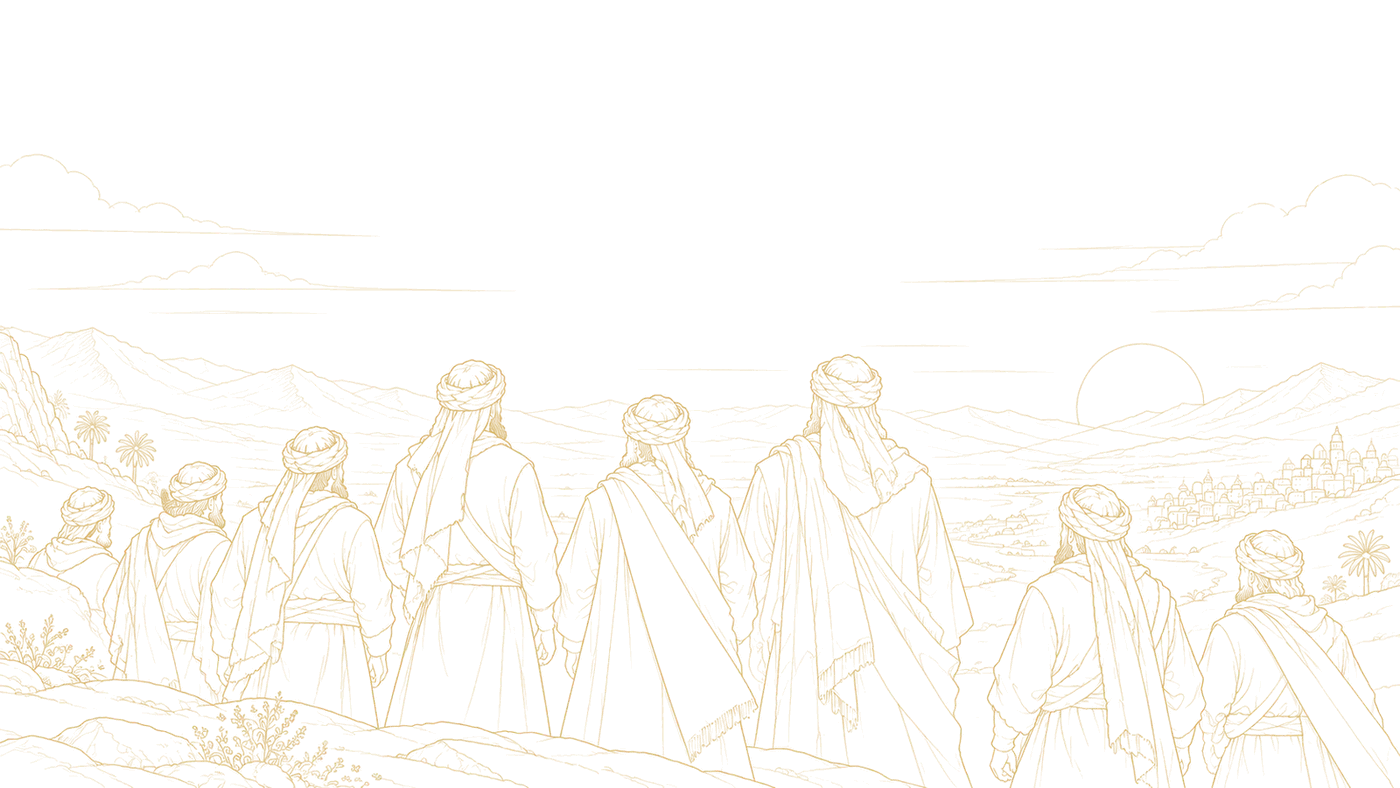
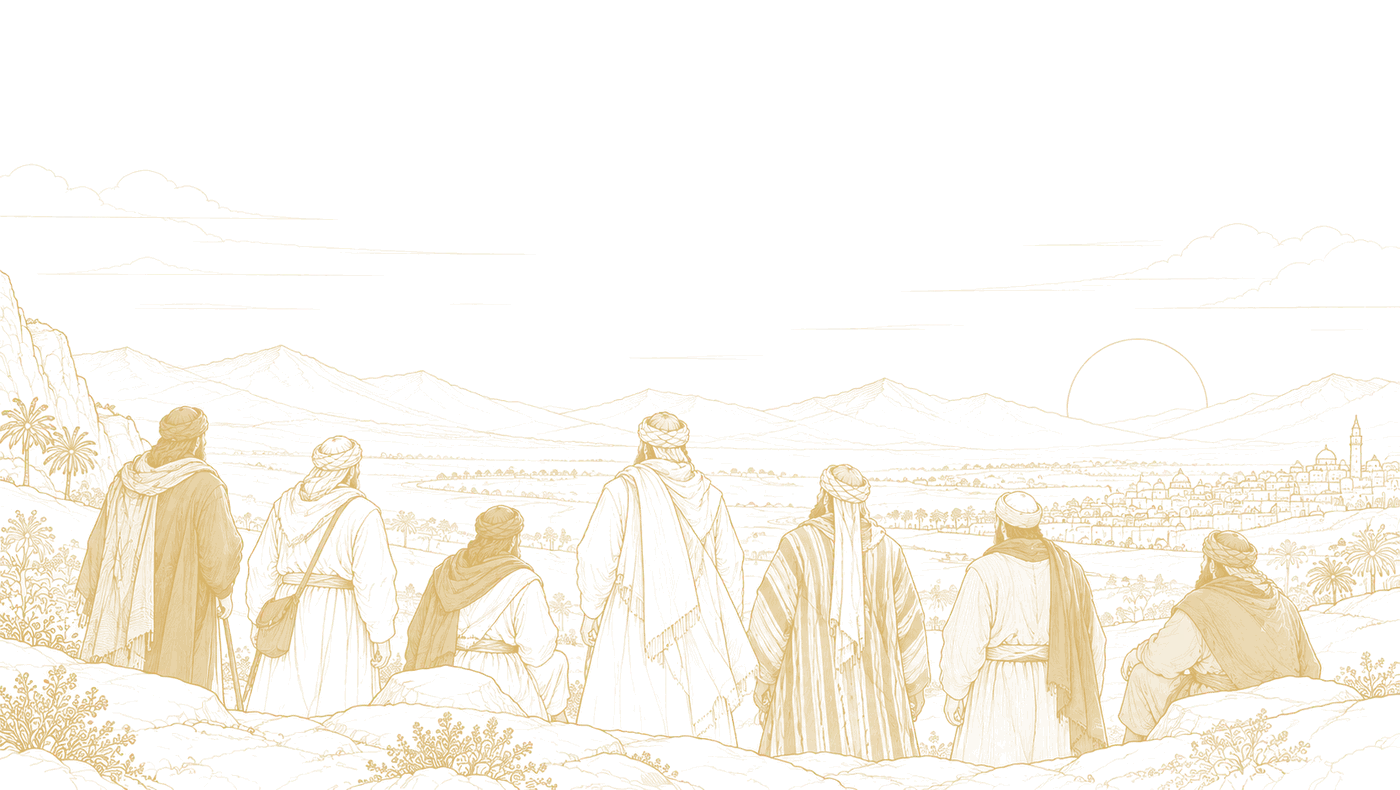
خلفية الشريط: الرسمة الجديدة أخف، وزووم في الموبايل
Claude-Session: https://claude.ai/code/session_017sij6fWkXrWpzPm7aXr9HP

diff --git a/index.html b/index.html
@@ -488,9 +488,9 @@ svg text{direction:rtl;word-spacing:normal!important;letter-spacing:normal!impor
 .band-crowd{height:clamp(120px,20vw,236px);max-height:none}
 .band-ctas{margin-top:26px}.band-ctas .band-cta{margin-top:0}.band-cta2{line-height:1.6}
 .band-crowd{display:none}.band-rose{display:none}
-.band-art{position:absolute;inset:0;z-index:-1;pointer-events:none;background:url(/img/band-art.webp) center bottom/cover no-repeat;opacity:.42;-webkit-mask-image:linear-gradient(to top,#000 25%,rgba(0,0,0,.35) 58%,transparent 88%);mask-image:linear-gradient(to top,#000 25%,rgba(0,0,0,.35) 58%,transparent 88%)}
+.band-art{position:absolute;inset:0;z-index:-1;pointer-events:none;background:url(/img/band-art.webp) center bottom/cover no-repeat;opacity:.3;-webkit-mask-image:linear-gradient(to top,#000 25%,rgba(0,0,0,.35) 58%,transparent 88%);mask-image:linear-gradient(to top,#000 25%,rgba(0,0,0,.35) 58%,transparent 88%)}
 .band .band-in{padding-bottom:clamp(120px,14vw,190px)}
-@media (max-width:560px){.band-art{background-size:auto 62%;opacity:.45}.band .band-in{padding-bottom:120px}}
+@media (max-width:560px){.band-art{background-size:auto 330px;background-position:48% bottom;opacity:.34}.band .band-in{padding-bottom:200px}}
 </style>
 <style>body{margin:0;padding-top:env(safe-area-inset-top,0px);padding-bottom:env(safe-area-inset-bottom,0px)}</style></head><body>
 <div class="wrap" dir="rtl" lang="ar">

diff --git a/sw.js b/sw.js
@@ -1,4 +1,4 @@
-const V='ms-v20';
+const V='ms-v21';
 const CORE=['/','/manifest.webmanifest','/fonts/panorama.woff2','/fonts/zanjabeel.woff2','/icon-192.png','/icon-512.png'];
 self.addEventListener('install',e=>{e.waitUntil(caches.open(V).then(c=>c.addAll(CORE)));self.skipWaiting();});
 self.addEventListener('activate',e=>{e.waitUntil(caches.keys().then(ks=>Promise.all(ks.filter(k=>k!==V).map(k=>caches.delete(k)))));self.clients.claim();});
